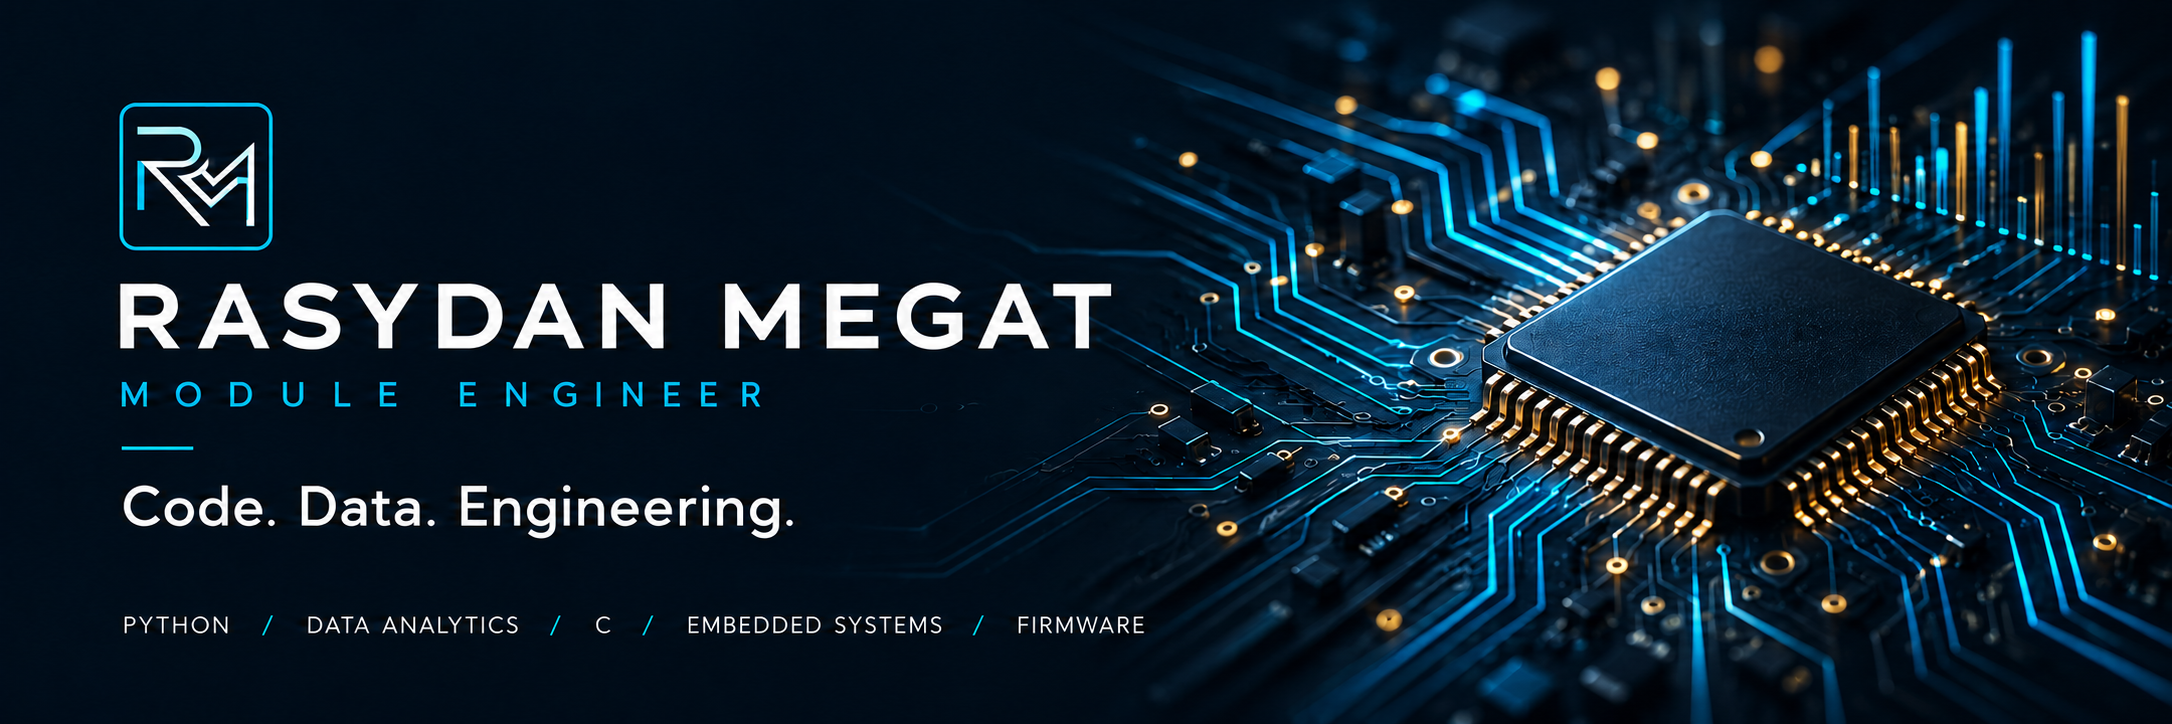
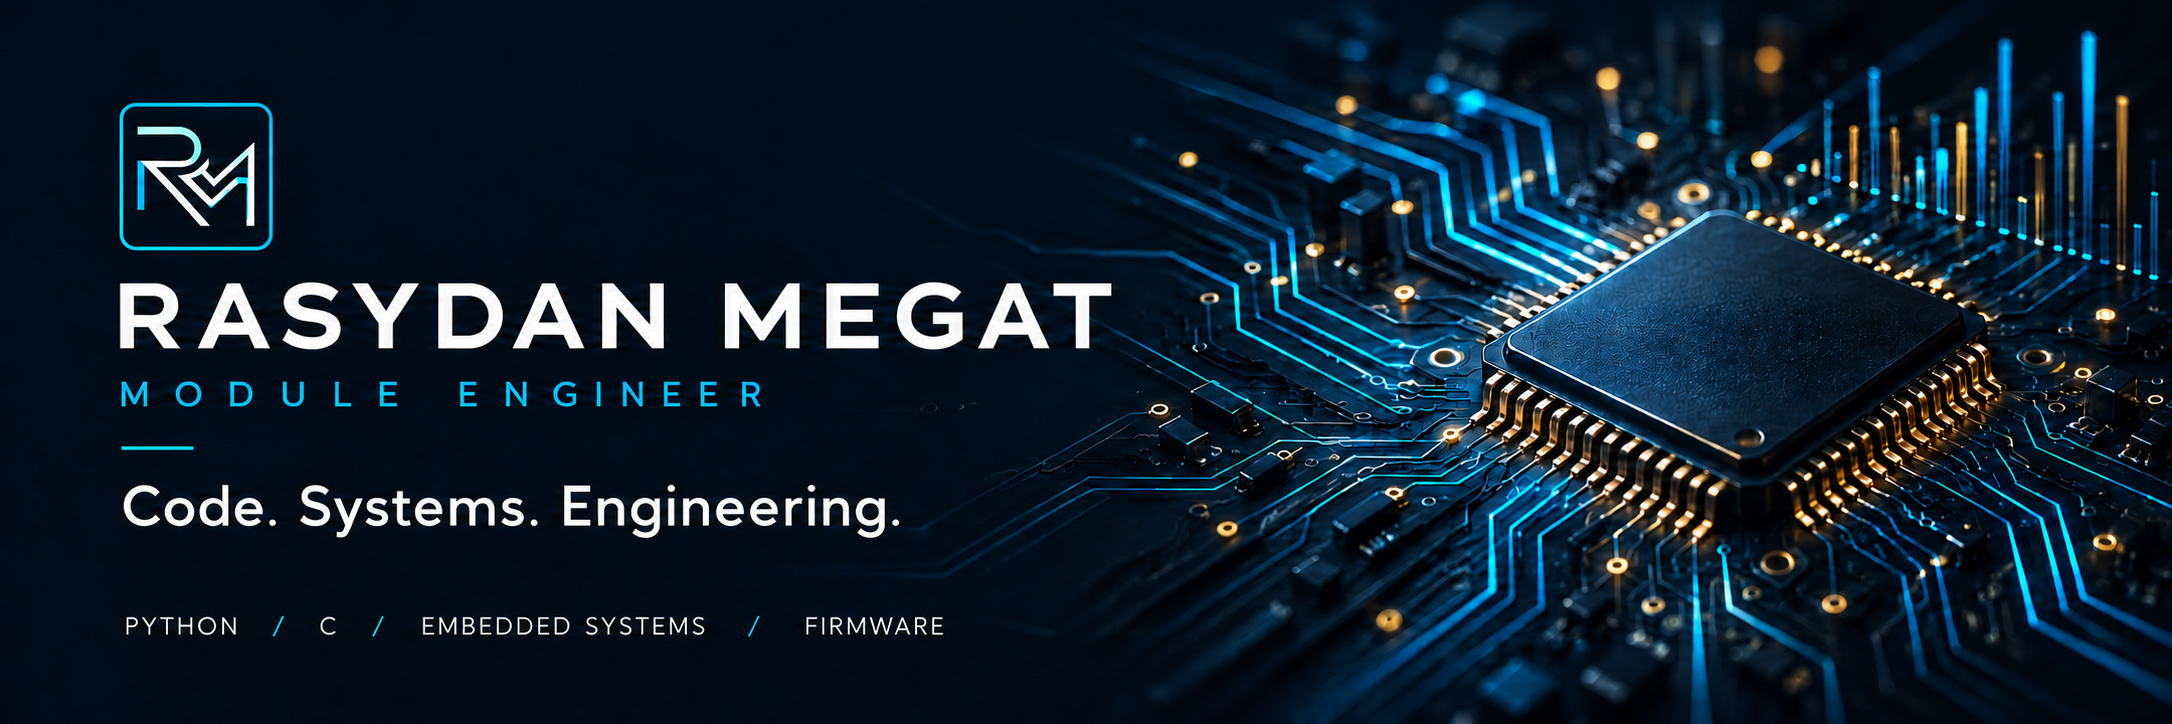
Focus profile on embedded firmware and test engineering

diff --git a/README.md b/README.md
@@ -1,10 +1,10 @@
 <p align="center">
-  <img src="assets/rasydan-banner.png" width="100%" alt="Rasydan Megat — Module Engineer. Code. Data. Engineering.">
+  <img src="assets/rasydan-banner.png" width="100%" alt="Rasydan Megat — Module Engineer. Code. Systems. Engineering.">
 </p>
 
 <p align="center">
   <strong>Preparing for opportunities in Embedded Systems, Firmware &amp; Test Engineering</strong><br>
-  <sub>LEARNING FOCUS &nbsp; / &nbsp; Python · Data Analytics · C · Embedded Systems · Firmware</sub>
+  <sub>LEARNING FOCUS &nbsp; / &nbsp; Python · C · Embedded Systems · Firmware</sub>
 </p>
 
 <p align="center">
@@ -19,7 +19,7 @@
   <a href="mailto:rasydan.mgtridzuan@gmail.com">Email ↗</a>
 </p>
 
-I am a **Module Engineer** expanding my knowledge in **Python, data analytics, C, embedded systems, and firmware** as I prepare to pursue embedded, firmware, and test engineering roles. This portfolio shares my projects, technical development, and learning journey.
+I am a **Module Engineer** expanding my knowledge in **Python, C, embedded systems, and firmware** as I prepare to pursue embedded, firmware, and test engineering roles. This portfolio shares my projects, technical development, and learning journey.
 
 <p align="center"><img src="assets/engineering-path.svg" width="100%" alt="My learning approach: Learn, build, test, document. An illustrative animated signal connects each step."></p>
 
@@ -90,7 +90,6 @@ I am currently taking courses on Coursera and developing my knowledge of **C, em
 | Area | Where I am now | Where I am heading |
 |:---|:---|:---|
 | **Python** | Fundamentals complete; data structures in progress | Files and error handling → OOP → larger projects → engineering simulations |
-| **Data analytics** | Published a semiconductor analysis project in Power BI | Continue developing data preparation, modelling, and analytical reporting skills |
 | **Embedded & firmware** | Coursera learning in progress | Build foundations in C and embedded systems, then document hands-on work |
 
 ## How I learn
@@ -105,4 +104,4 @@ Interested in my work or learning journey? Connect with me on LinkedIn or explor
 
 **[LinkedIn ↗](https://www.linkedin.com/in/rasydan-bin-megat-ridzuan-350b2426a/)** &nbsp;·&nbsp; **[Email ↗](mailto:rasydan.mgtridzuan@gmail.com)** &nbsp;·&nbsp; **[GitHub repositories ↗](https://github.com/RasydanMegat?tab=repositories)**
 
-<p align="center"><br><img src="assets/rm-mark.svg" width="42" alt="RM monogram"><br><sub>RASYDAN MEGAT &nbsp; / &nbsp; Code. Data. Engineering.</sub></p>
+<p align="center"><br><img src="assets/rm-mark.svg" width="42" alt="RM monogram"><br><sub>RASYDAN MEGAT &nbsp; / &nbsp; Code. Systems. Engineering.</sub></p>
